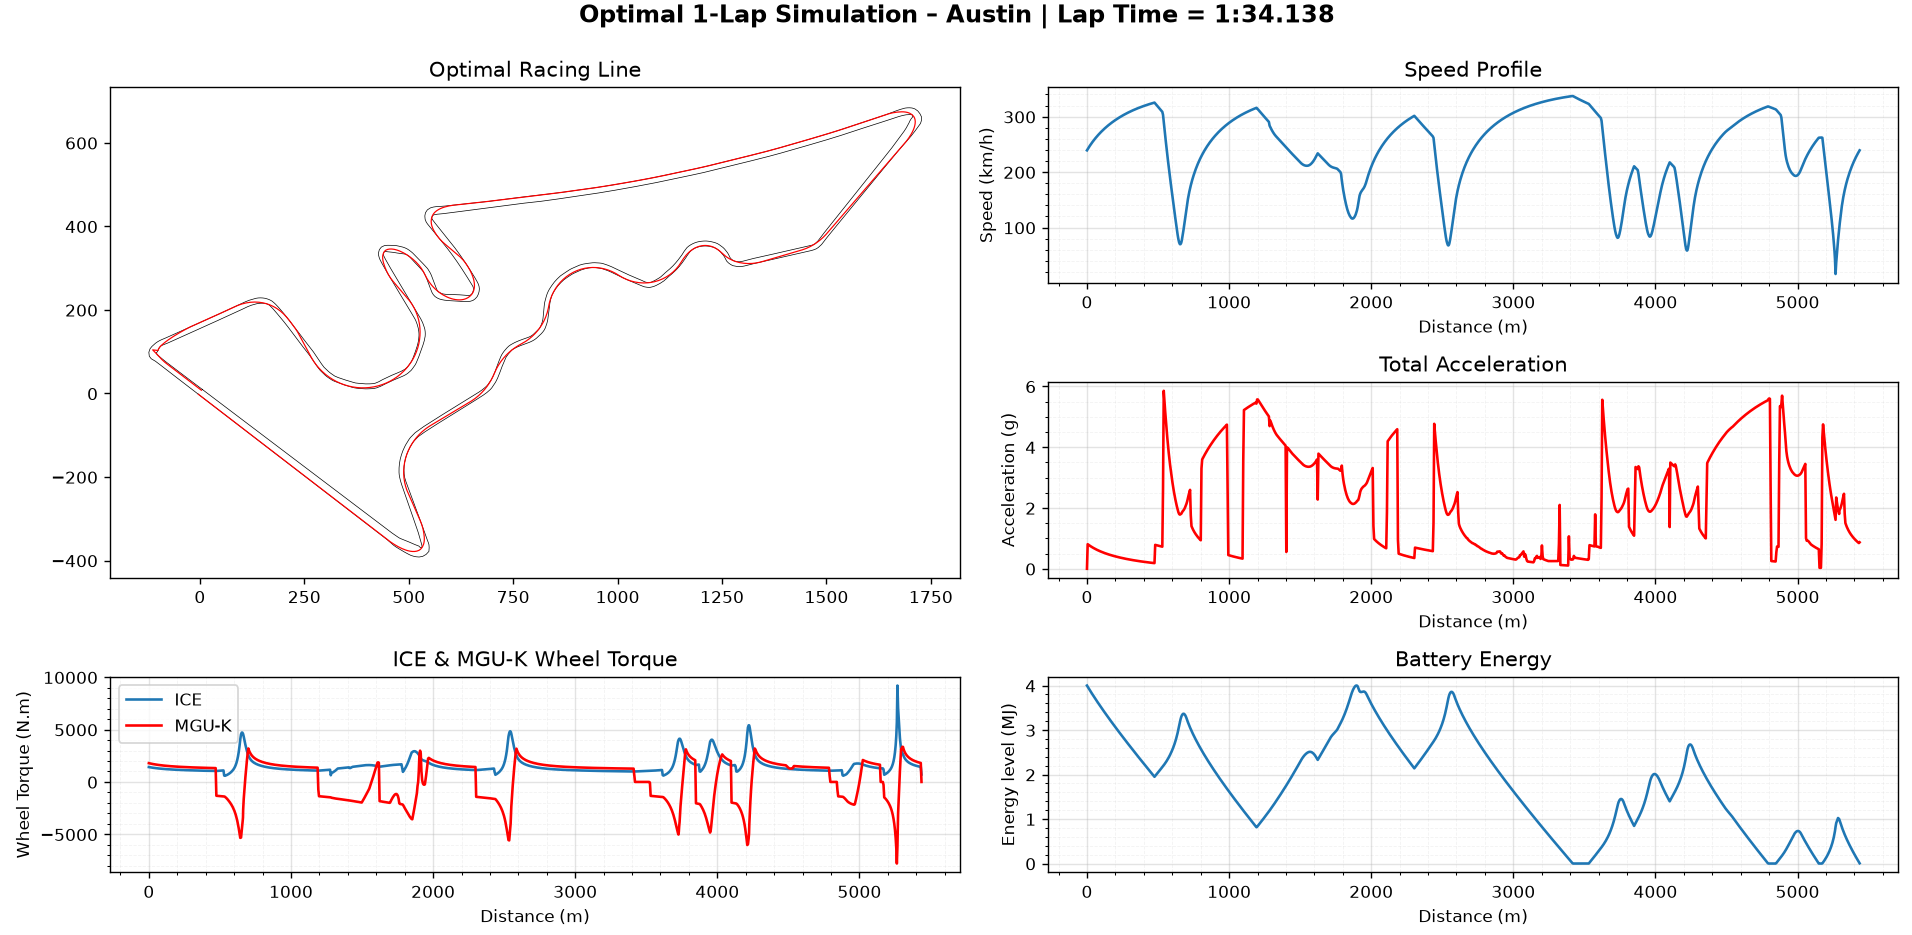
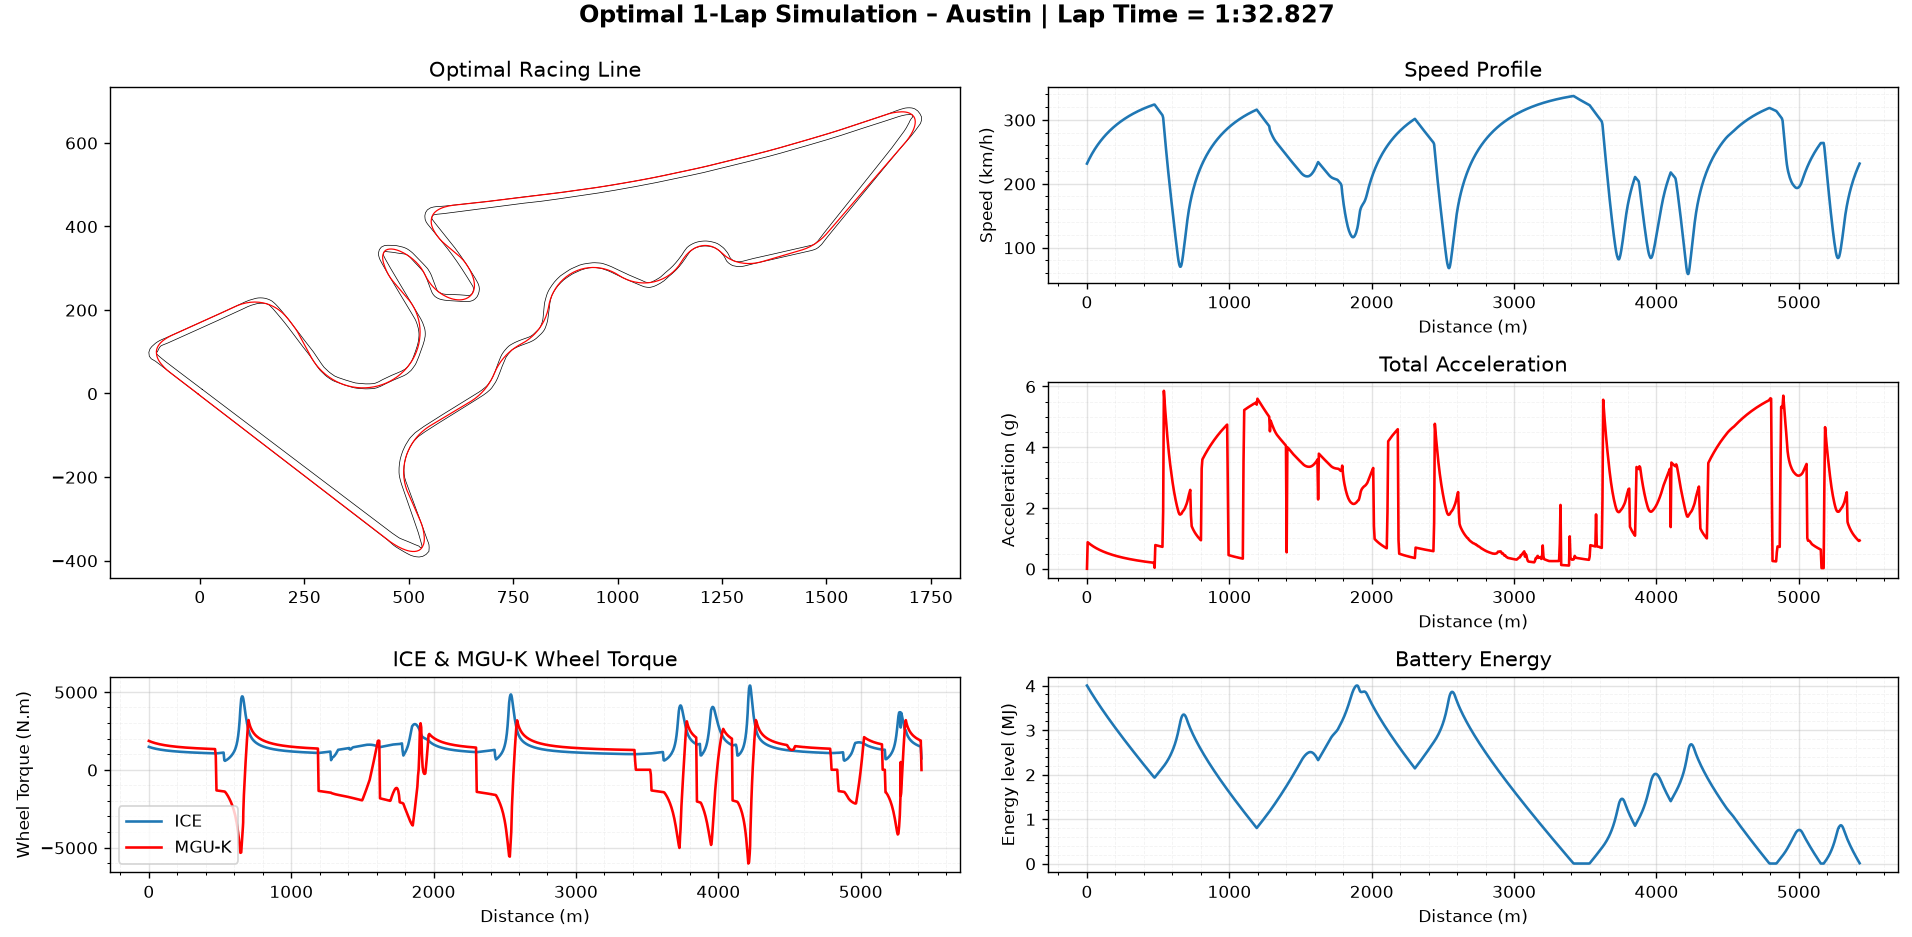
Removed brake torque, added lap simulations

diff --git a/optimisation.py b/optimisation.py
@@ -174,7 +174,9 @@ def solve_lap(track):
         lbg = np.r_[np.full(2*(track.n-1), -np.inf), np.zeros(track.n-1), np.full(2*track.n, -np.inf), np.zeros(track.n), np.zeros(track.n-1), 0.0, 0.0],
         ubg = np.r_[np.zeros(2*(track.n-1)), np.zeros(track.n-1), np.zeros(2*track.n), np.full(track.n, np.inf), np.zeros(track.n-1), 0.0, 0.0])
 
-    print(solver.stats()['return_status']) 
+    stats = solver.stats()
+
+    print(stats['return_status']) 
     
     return solution
 
@@ -247,8 +249,9 @@ def acceleration(track, v):
     T = heading_change(v, track.n)
     return np.r_[0, np.reshape(np.sqrt(A**2 + ((V[1:]+V[0:-1])/2)**2*(T/dt)**2), track.n-1)]
 
+
 if __name__ == "__main__":
+
     austin = Track("Austin")
     sol = solve_lap(austin)
     plot_results(austin, sol)
-

diff --git a/powertrain.py b/powertrain.py
@@ -74,3 +74,4 @@ def T_MGUK_max(x) :
 
 def T_ICE_max(x) :
     return polynome(C_ICE, x)
+

diff --git a/README.md b/README.md
@@ -8,23 +8,25 @@ Optimal control of a hybrid Formula 1 car (point-mass model, ICE + MGU-K) around
 
 ## Results
 
-Predicted lap times vs. **2026 pole position laps**, with **the same car parameters on every circuit** (no per-track tuning). A pole lap is a single flying lap on fresh tyres and low fuel, which is the scenario the optimizer models (no traffic, no tyre degradation).
+Predicted lap times vs. **2026 pole position laps**, with **the same car parameters on every circuit** (no per-track tuning). A pole lap is a single flying lap on fresh tyres and low fuel, which is the scenario the optimizer models (no traffic, no tyre degradation). Circuits are listed in 2026 calendar order.
 
-| Circuit | Pole position (2026) | Model | Δ (s) | Δ (%) |
-|---|---|---|---|---|
-| Austin | 1:34.035 | 1:34.138 | +0.103 | +0.11 |
-| Mexico City | 1:16.514 | 1:15.112 | −1.402 | −1.83 |
-| Spa | 1:44.361 | 1:46.002 | +1.641 | +1.57 |
-| Monza | 1:21.786 | 1:22.605 | +0.819 | +1.00 |
-| Zandvoort | 1:11.163 | 1:14.279 | +3.116 | +4.38 |
-| Silverstone | 1:28.111 | 1:26.976 | −1.135 | −1.29 |
-| Suzuka | 1:28.778 | 1:28.433 | −0.345 | −0.39 |
-| Spielberg | 1:06.113 | 1:07.245 | +1.132 | +1.71 |
-| Shanghai | 1:32.064 | 1:33.590 | +1.526 | +1.66 |
-| Montreal | 1:12.578 | 1:13.339 | +0.761 | +1.05 |
-| *Yas Marina* | *pending (GP not yet held)* | *1:38.991* | – | – |
+| Circuit | Pole position (2026) | Model | Δ (s) | Δ (%) | Solve time (s) |
+|---|---|---|---|---|---|
+| Shanghai | 1:32.064 | 1:33.591 | +1.527 | +1.66 | 7.3 |
+| Suzuka | 1:28.778 | 1:28.433 | −0.345 | −0.39 | 4.5 |
+| Montreal | 1:12.578 | 1:13.339 | +0.761 | +1.05 | 2.8 |
+| Spielberg | 1:06.113 | 1:07.245 | +1.132 | +1.71 | 4.0 |
+| Silverstone | 1:28.111 | 1:26.976 | −1.135 | −1.29 | 7.4 |
+| Spa | 1:44.361 | 1:46.002 | +1.641 | +1.57 | 13.6 |
+| Budapest | 1:17.207 | 1:18.600 | +1.393 | +1.80 | 3.3 |
+| Zandvoort | 1:11.163 | 1:14.279 | +3.116 | +4.38 | 3.2 |
+| Monza | 1:21.786 | 1:22.605 | +0.819 | +1.00 | 4.6 |
+| Sepang | 1:35.130 | 1:30.966 | −4.164 | −4.38 | 24.3 |
+| Austin | 1:34.035 | 1:32.827 | −1.208 | −1.28 | 15.3 |
+| Mexico City | 1:16.514 | 1:15.113 | −1.401 | −1.83 | 13.8 |
+| *Yas Marina* | *pending (GP not yet held)* | *1:38.991* | – | – | *6.8* |
 
-**Mean absolute error: 1.20 s (1.5 %)** over the 10 completed circuits, or 0.99 s excluding Zandvoort. The mean signed error is +0.6 s: the model is slightly slower on average, with no strong systematic bias. Yas Marina is a prediction made before the race and is excluded from the statistics.
+**Mean absolute error: 1.55 s (1.9 %)** over the 12 completed dry circuits, with a mean signed error of **+0.18 s** (virtually no systematic bias) and an **average solve time of 8.5 s** (wall-clock) across all 13 circuits. Excluded from the comparison: **Melbourne** and **Catalunya** (the TUMFTM database uses outdated pre-2022/2023 chicane layouts), **São Paulo** (wet qualifying session), and **Yas Marina** (pre-race prediction).
 
 ### Sources of error
 
@@ -49,11 +51,11 @@ These results should be read as a validation of the order of magnitude and of th
 - The optimizer is a *perfect driver*: it finds the global-quality optimum for the model, whereas a real pole lap contains small driver errors, compromises for tyre warm-up and traffic management.
 - Real pole laps are one sample: they depend on the session conditions and on what each driver extracts on the day.
 
-Errors of different signs partially compensate: a model that is too optimistic in grip can be offset by one that is too pessimistic in power, so a small error on one circuit (Austin) is not proof that the model is accurate there.
+Errors of different signs partially compensate: a model that is too optimistic in grip can be offset by one that is too pessimistic in power, so a small error on one circuit is not proof that the model is accurate there.
 
 ## Model
 
-**Decision variables** at each of the *n* nodes of the track reference line: velocity vector $(v_x, v_y)$, lateral offset $d$ from the centerline, ICE torque $T_{ICE}$, MGU-K torque $T_{K}$, brake torque $T_{b} \le 0$ and battery energy $E$ (7n variables in total).
+**Decision variables** at each of the *n* nodes of the track reference line: velocity vector $(v_x, v_y)$, lateral offset $d$ from the centerline, ICE torque $T_{ICE}$, MGU-K torque $T_{K}$, and battery energy $E$ (6n variables in total).
 
 **Objective**
 
@@ -63,7 +65,7 @@ $$\min \sum_k \Delta t_k, \qquad \Delta t_k = \frac{2\,\Delta s_k}{V_k + V_{k+1}
 
 - **Longitudinal dynamics** (wheel torque balance, including wheel inertia $J$ and aero drag):
 
-$$\left(\frac{J}{R} + R\,m\right) a_k \le T_{ICE} + T_{K} + T_{b} - \tfrac12 R \rho S C_x V_k^2$$
+$$\left(\frac{J}{R} + R\,m\right) a_k \le T_{ICE} + T_{K} - \tfrac12 R \rho S C_x V_k^2$$
 
 - **Tyre grip** (friction circle with aerodynamic downforce):
 
@@ -76,7 +78,7 @@ $$\left(m a_k + \tfrac12 \rho S C_x V^2\right)^2 + \left(m V \dot\theta\right)^2
 **Solving**: the NLP is discretized along the track, with automatic differentiation by CasADi (`SX`) and an interior-point solve with Ipopt. The initial guess is a constant-speed profile along the centerline.
 
 **Notes**
-- The dynamics constraint is written as an inequality: the brake variable is unbounded below, so any excess torque is dissipated by the brake. It is an exact relaxation of the equality for lap-time minimization.
+- The dynamics constraint is written as an inequality: any excess torque is dissipated by the brake.
 - Max torque curves vs. speed are 5th-degree polynomial fits of the gear-optimized powertrain, computed once at import.
 
 ## Project structure
@@ -105,7 +107,6 @@ The default circuit is Austin. Change it in the `__main__` block: any file in `t
 
 - [ ] **Pacejka "Magic Formula"** tyre model, with coefficients reverse-engineered from [FastF1](https://github.com/theOehrly/Fast-F1) telemetry
 - [ ] **Four-wheel model**: per-wheel force distribution, load transfer, aero balance and configurable setups
-- [ ] **Per-circuit conditions**: air density, track grip and temperature, and elevation profile
 - [ ] **Car database** to store and compare several cars / configurations
 - [ ] **Simple, intuitive interface** to run and visualize simulations
 
